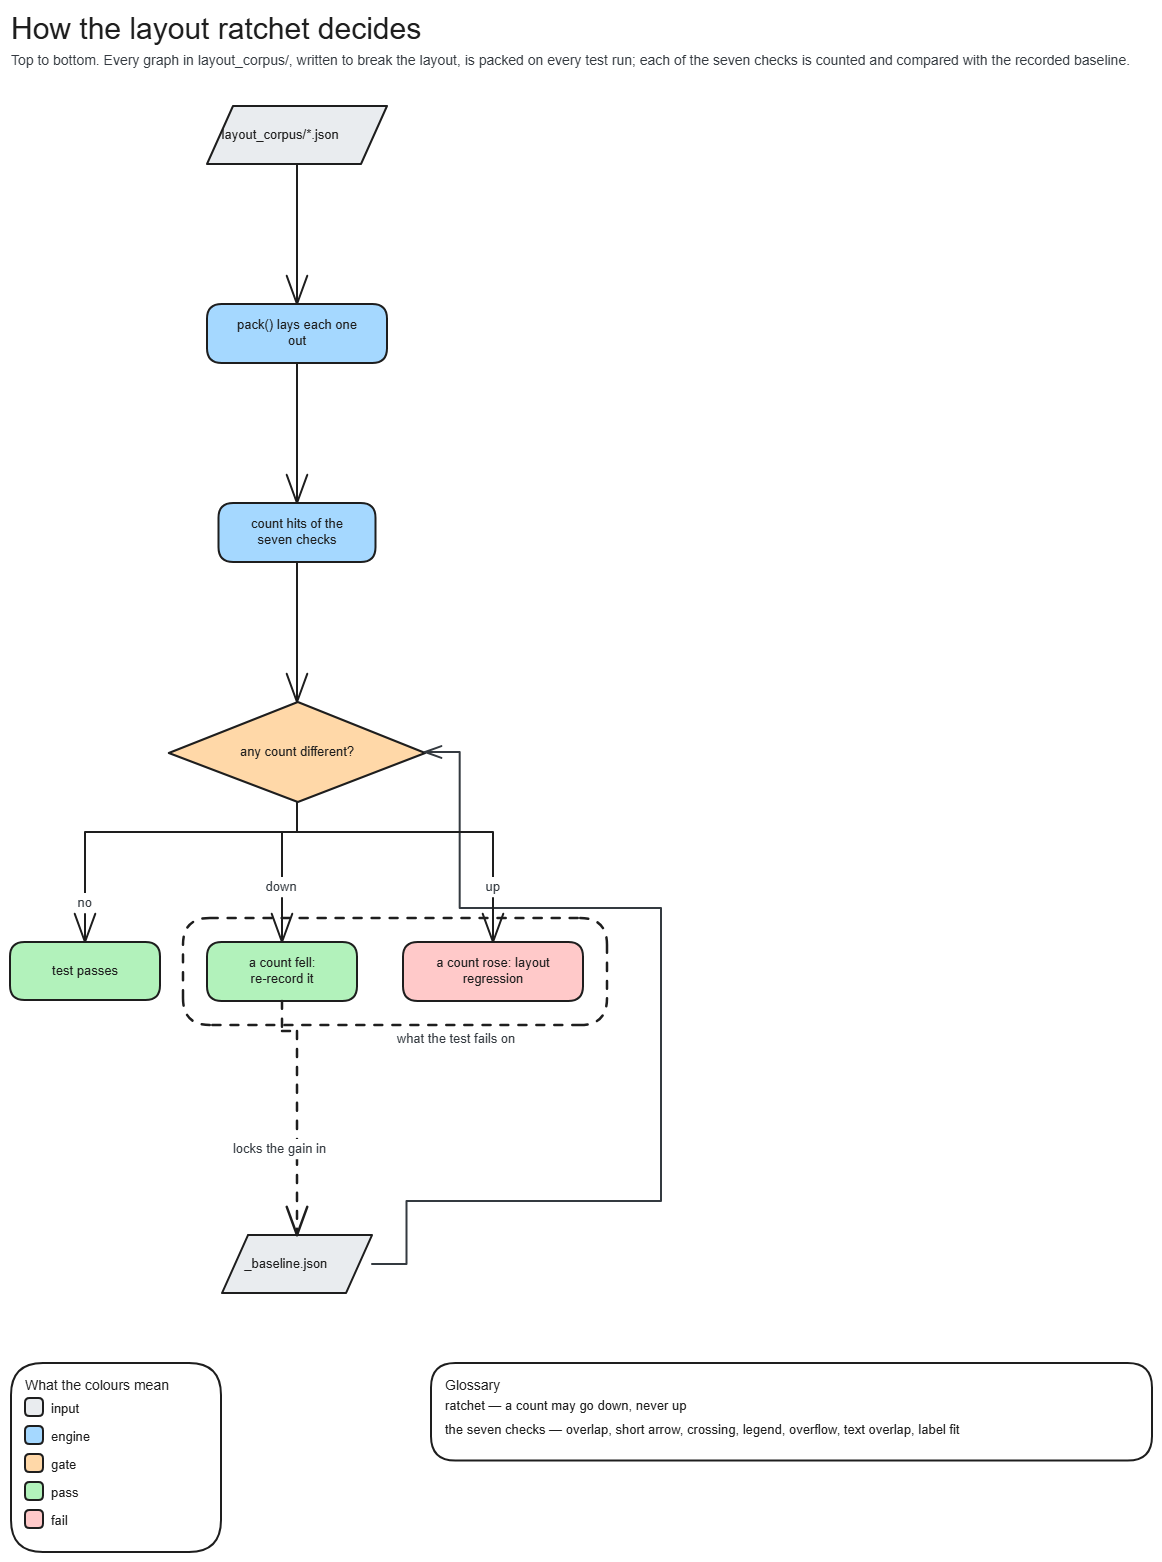
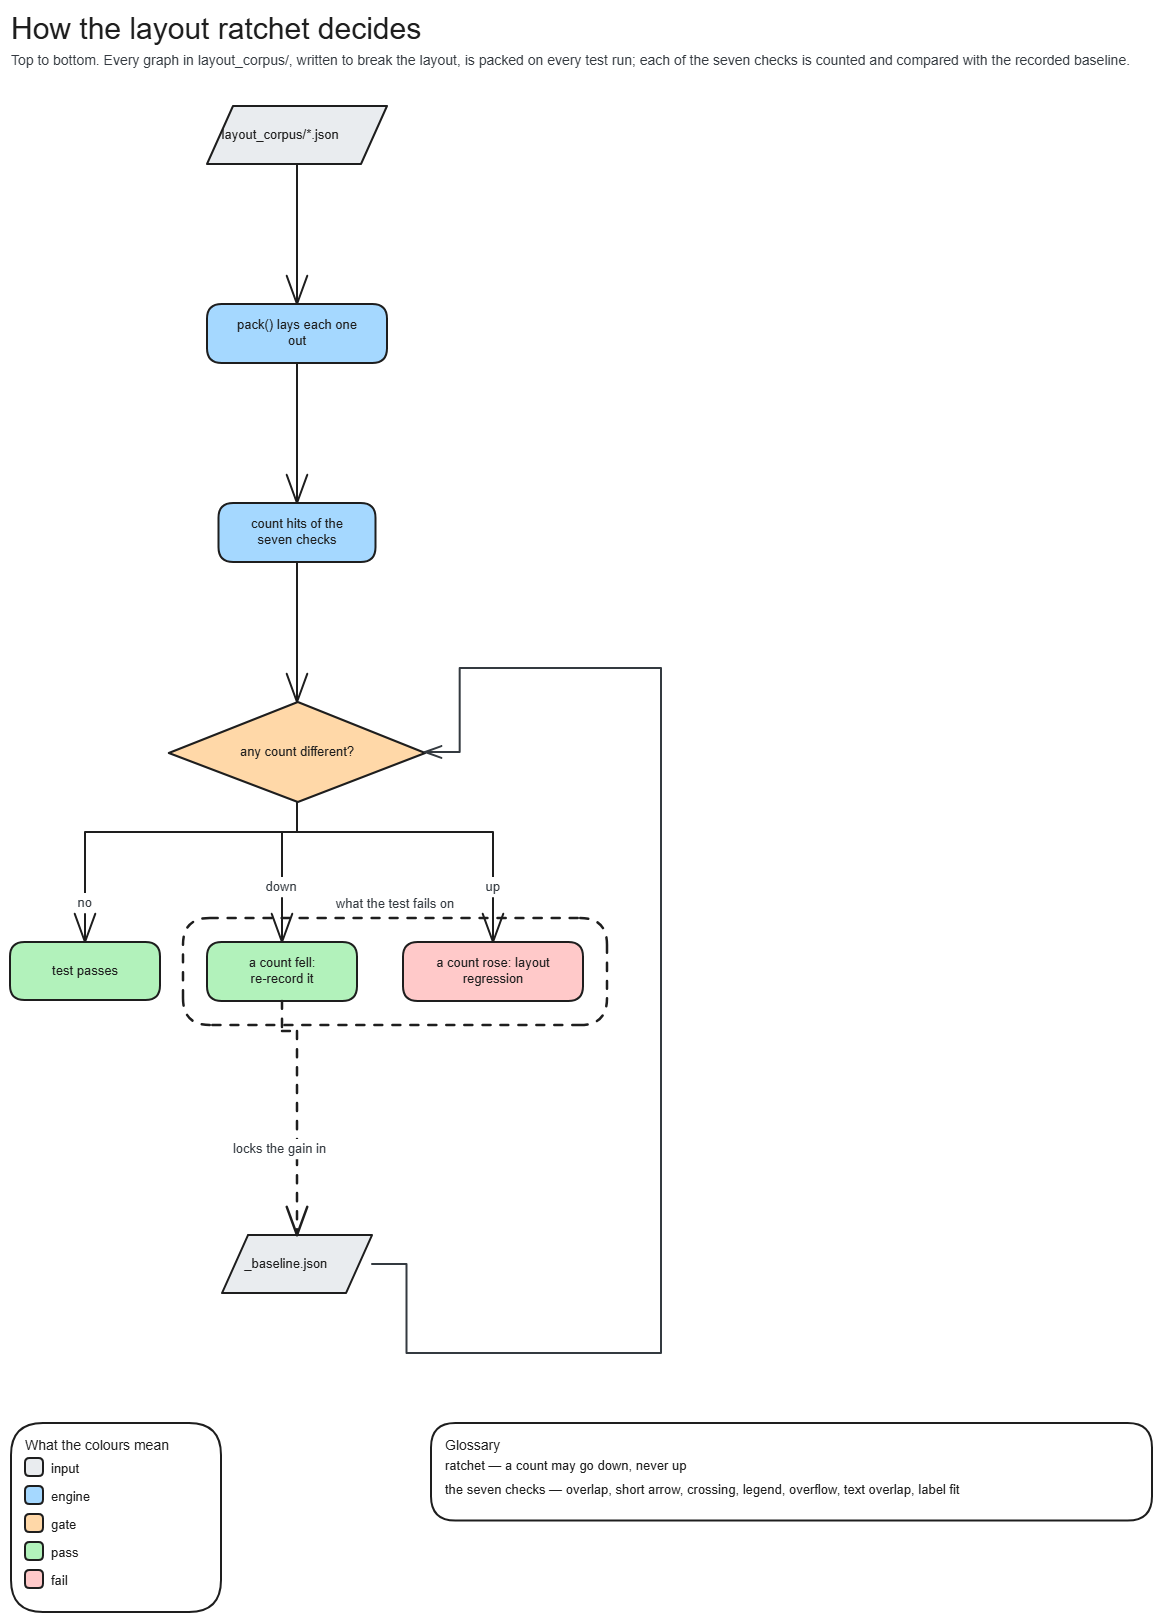
Route a detour past its target's bus; count the README diagram labels
pack() routed a feedback edge into its target through the strip after the
target's layer. With edge_style "orthogonal" that strip also carries the
target's bus, so in docs/ratchet_graph.json the edge
_baseline.json -> "any count different?" cut the "up" branch. No gate
judges one connector against another, so nothing reported it.

Detours are now routed after every straight arrow and bus. Each end may use
the strip on either side of its layer, and pack() keeps the path crossing
the fewest connectors; the previous choice wins a tie, so a layout that had
no crossing keeps its geometry (ci_flow, scene_from_json and state_machine
regenerate with identical coordinates). The segment test moves from
sides.py to geometry.segments_cross so both callers share it.

docs/make_repo_map.py counts tests, generators and requirements when it
runs. make_full_architecture.py counts its generators and drops the test
and requirement counts it cannot see from an installed copy.

layout_ratchet.png, repo_map.png and full_architecture.png re-exported.

diff --git a/plugin-full/skills/excalidraw-diagram/scripts/excalidraw_engine/pack.py b/plugin-full/skills/excalidraw-diagram/scripts/excalidraw_engine/pack.py
@@ -12,7 +12,7 @@ check_arrow_crossings() empty.
 """
 
 from .annotate import numbered_text
-from .geometry import as_point, fit_text, text_extent
+from .geometry import as_point, fit_text, segments_cross, text_extent
 from .shapes import SUBLABEL_SIZE
 from .style import Font, Paint
 
@@ -357,7 +357,7 @@ class _PackRun(object):
         channel.append(self.at[-1] + self.extent[-1] + 60.0)
         _, _, far_x, far_y = self.scene.bounds()
         far = (far_y if self.lr else far_x) + margin
-        lane, trunk = 0, self._trunks()
+        lane, trunk, detours = 0, self._trunks(), []
         for k, link in enumerate(self.links):
             src, dst = str(link["src"]), str(link["dst"])
             a, b = self.placed[src], self.placed[dst]
@@ -370,10 +370,13 @@ class _PackRun(object):
                 self.scene.arrow(a, b, label=link.get("label"),
                                  paint=Paint(dashed=bool(link.get("dashed"))))
                 continue
-            self._route((a, b), (self.layer[src], self.layer[dst]), channel,
-                        (far + self.opts.lane_gap * (lane + 1), min(lane * 5.0, 10.0),
-                         link.get("label")), dashed=bool(link.get("dashed")))
+            detours.append(((a, b), (self.layer[src], self.layer[dst]), channel,
+                            (far + self.opts.lane_gap * (lane + 1), min(lane * 5.0, 10.0),
+                             link.get("label")), bool(link.get("dashed"))))
             lane += 1
+        # routed last, so each detour sees every straight arrow and bus it could cut
+        for ends, spans, chan, lane_spec, dashed in detours:
+            self._route(ends, spans, chan, lane_spec, dashed=dashed)
 
     def _trunks(self):
         """{source id: trunk coordinate} for every node with a bus edge, empty
@@ -443,29 +446,52 @@ class _PackRun(object):
         height of a box's side, and no gate would see a line through that text.
         The lane's nudge offsets connectors that share a channel. The line is grey and
         dashed only when its edge is, as a straight arrow is: a detour must not read as
-        a different kind of relationship."""
+        a different kind of relationship.
+
+        Each end can use the channel on either side of its layer. The default pair
+        is tried first and kept unless another pair cuts fewer drawn connectors: the
+        gap after a layer also carries that layer's bus, and a detour through it
+        would cut the bus's branches."""
         lane_at, nudge, label = lane
         sx, sy, sw, sh, _ = self.scene._geom[ends[0]]
         dx, dy, dw, dh, _ = self.scene._geom[ends[1]]
         ls, ld = spans
-        out_i, in_i = (ls, ld + 1) if ld <= ls else (ls + 1, ld)
-        if out_i == in_i:       # neighbouring layers: both legs would share one
-            out_i, in_i = (ls + 1, ld) if ld <= ls else (ls, ld + 1)   # channel
-        out_c, in_c = channel[out_i] - nudge, channel[in_i] - nudge
+        # the default, then its mirror (the one neighbouring layers fall back to)
+        preferred = [(ls, ld + 1), (ls + 1, ld)] if ld <= ls else [(ls + 1, ld), (ls, ld + 1)]
+        pairs = preferred + [(o, i) for o in (ls, ls + 1) for i in (ld, ld + 1)
+                             if (o, i) not in preferred]
         # clear of enclose()'s 24px frame, inside the row gap
         gap = self.opts.gap_minor
         stub = min(max(gap * 0.75, 30.0), gap - 6.0)
-        if self.lr:                                 # lanes run below the diagram
-            s_out, d_out = sy + sh + stub, dy + dh + stub
-            pts = [(sx + sw / 2, sy + sh), (sx + sw / 2, s_out), (out_c, s_out),
-                   (out_c, lane_at), (in_c, lane_at),
-                   (in_c, d_out), (dx + dw / 2, d_out), (dx + dw / 2, dy + dh)]
-        else:                                       # lanes run right of it
-            s_out, d_out = sx + sw + stub, dx + dw + stub
-            pts = [(sx + sw, sy + sh / 2), (s_out, sy + sh / 2), (s_out, out_c),
-                   (lane_at, out_c), (lane_at, in_c),
-                   (d_out, in_c), (d_out, dy + dh / 2), (dx + dw, dy + dh / 2)]
+
+        def points(out_i, in_i):
+            out_c, in_c = channel[out_i] - nudge, channel[in_i] - nudge
+            if self.lr:                             # lanes run below the diagram
+                s_out, d_out = sy + sh + stub, dy + dh + stub
+                return [(sx + sw / 2, sy + sh), (sx + sw / 2, s_out), (out_c, s_out),
+                        (out_c, lane_at), (in_c, lane_at),
+                        (in_c, d_out), (dx + dw / 2, d_out), (dx + dw / 2, dy + dh)]
+            s_out, d_out = sx + sw + stub, dx + dw + stub   # lanes run right of it
+            return [(sx + sw, sy + sh / 2), (s_out, sy + sh / 2), (s_out, out_c),
+                    (lane_at, out_c), (lane_at, in_c),
+                    (d_out, in_c), (d_out, dy + dh / 2), (dx + dw, dy + dh / 2)]
+
+        drawn = self._connector_legs()
+        # neighbouring layers: both legs in one channel would overlap, so skip it
+        candidates = [points(o, i) for o, i in pairs if o != i]
+        pts = min(candidates, key=lambda c: sum(
+            segments_cross(leg, other) for leg in zip(c, c[1:]) for other in drawn))
         return self.scene.path(pts, label=label, paint=Paint(stroke="grey", dashed=dashed))
+
+    def _connector_legs(self):
+        """Every straight leg of the connectors drawn so far, as ((x1, y1), (x2, y2))."""
+        legs = []
+        for el in self.scene.elements:
+            pts = el.get("points") or ()
+            if el.get("type") in ("arrow", "line") and not el.get("polygon") and len(pts) > 1:
+                xy = [(el["x"] + px, el["y"] + py) for px, py in pts]
+                legs.extend(zip(xy, xy[1:]))
+        return legs
 
 
 class PackMixin(object):

diff --git a/docs/make_repo_map.py b/docs/make_repo_map.py
@@ -10,12 +10,24 @@ Regenerate from the repo root (the .excalidraw + .html land where you say):
 Then open out/repo_map.html and use Excalidraw's menu > Export image to refresh
 docs/repo_map.png.
 """
+import glob
 import os
 import sys
+import unittest
 
-sys.path.insert(0, os.path.join(os.path.dirname(__file__), "..", "plugin-full",
-                                "skills", "excalidraw-diagram", "scripts"))
+ROOT = os.path.join(os.path.dirname(os.path.abspath(__file__)), "..")
+SKILL = os.path.join(ROOT, "plugin-full", "skills", "excalidraw-diagram")
+sys.path.insert(0, os.path.join(SKILL, "scripts"))
 from excalidraw_builder import DASHED, Font, Gates, Scene
+
+# counted at generation time, so the labels cannot go stale
+N_EXAMPLES = len(glob.glob(os.path.join(SKILL, "examples", "make_*.py")))
+N_TESTS = unittest.defaultTestLoader.discover(
+    os.path.join(SKILL, "scripts"), pattern="test_*.py").countTestCases()
+N_REQS = 0
+for _path in glob.glob(os.path.join(ROOT, "requirements", "*.md")):
+    with open(_path, encoding="utf-8") as _f:
+        N_REQS += sum(1 for line in _f if line.startswith("id:"))
 
 s = Scene(seed=7, roles={
     "you":      "grey",     # the person asking, or Claude acting for them
@@ -39,9 +51,9 @@ row_y = y + 44
 parts = s.row([
     ("SKILL.md\nthe contract Claude follows", "contract"),
     ("excalidraw_builder.py\nthe builder, stdlib only", "engine"),
-    ("test_excalidraw.py\n65 tests + every example", "gate"),
-    ("examples/make_*.py\nfour worked generators", "output"),
-    ("requirements/\n11 promises, gate-checked", "spec"),
+    ("test_*.py\n%d tests, every example" % N_TESTS, "gate"),
+    ("examples/make_*.py\n%d worked generators" % N_EXAMPLES, "output"),
+    ("requirements/\n%d promises, gate-checked" % N_REQS, "spec"),
 ], (80, row_y), gap=26, cell={"size": (215, 70), "font": 12})
 s.enclose(parts, label="plugin-full/  -  what gets installed")
 _, _, fx2, _ = s.bounds()

diff --git a/plugin-full/skills/excalidraw-diagram/examples/make_full_architecture.py b/plugin-full/skills/excalidraw-diagram/examples/make_full_architecture.py
@@ -16,11 +16,16 @@ Every save() gate runs at "error". Run from the repo root, writing into the
 regenerable diagrams/ dir:
     python plugin-full/skills/excalidraw-diagram/examples/make_full_architecture.py diagrams
 """
+import glob
 import os
 import sys
 
 sys.path.insert(0, os.path.join(os.path.dirname(__file__), "..", "scripts"))
 from excalidraw_builder import Font, Gates, Scene
+
+# counted, not written: a hand-typed count goes stale with the next example
+N_EXAMPLES = len(glob.glob(os.path.join(os.path.dirname(os.path.abspath(__file__)),
+                                        "make_*.py")))
 
 s = Scene(seed=31, roles={
     "engine":   "blue",     # excalidraw_builder.py
@@ -42,8 +47,8 @@ parts = s.row([
     ("SKILL.md\nthe contract", "skill"),
     ("excalidraw_builder.py\nstdlib only", "engine"),
     ("references/\napi + examples", "words"),
-    ("examples/make_*.py\nfour generators", "artifact"),
-    ("requirements/\n14 promises", "words"),
+    ("examples/make_*.py\n%d generators" % N_EXAMPLES, "artifact"),
+    ("requirements/\ngate-checked promises", "words"),
 ], (80, y + 44), gap=28, cell={"size": (200, 64), "font": 13})
 s.enclose(parts, label="excalidraw-diagram plugin")
 
@@ -95,7 +100,7 @@ yb = yi + 150
 mkt = s.box(".claude-plugin\nmarketplace.json", (80, yb, 190, 64),
             paint="external", font=13)
 inst = s.box("/plugin install", (470, yb, 170, 64), paint="external", font=13)
-ci = s.box("git + CI\n80 tests, every example", (840, yb, 220, 64),
+ci = s.box("git + CI\nevery test, every example", (840, yb, 220, 64),
            paint="external", font=13)
 s.arrow(mkt, inst, label="lists")
 s.arrow(inst, ci, label="then every push")

diff --git a/plugin-full/skills/excalidraw-diagram/scripts/test_excalidraw.py b/plugin-full/skills/excalidraw-diagram/scripts/test_excalidraw.py
@@ -1181,6 +1181,20 @@ class CasesExcalidraw034(unittest.TestCase):  # tested-by: REQ-EXCALIDRAW-851  #
                options=eb.PackOptions(direction="TB"))
         self.assertEqual(s.check_overlaps(), [])
 
+    def test_a_feedback_edge_avoids_its_targets_bus(self):  # verifies: ARCH-EXCALIDRAW-034#CASE-5
+        # the README's ratchet graph: the strip under "cmp" carries its bus, so a
+        # feedback edge entering through it cut the branch to "rose". No gate sees
+        # one connector crossing another, so the geometry is asserted here
+        from excalidraw_engine.sides import crossings
+        nodes = [{"id": n} for n in ("corpus", "pack", "count", "base", "ok", "rose", "fell")]
+        nodes.append({"id": "cmp", "kind": "decision"})
+        edges = [{"src": a, "dst": b} for a, b in (
+            ("corpus", "pack"), ("pack", "count"), ("count", "cmp"), ("base", "cmp"),
+            ("cmp", "ok"), ("cmp", "rose"), ("cmp", "fell"), ("fell", "base"))]
+        s = eb.Scene(seed=29)
+        s.pack(nodes, edges, options=eb.PackOptions(direction="TB", edge_style="orthogonal"))
+        self.assertEqual(crossings([e for e in s.elements if not e.get("polygon")])[1], 0)
+
     def test_a_frame_caption_dodges_the_arrows_entering_the_group(self):  # verifies: REQ-EXCALIDRAW-851#CASE-7
         nodes = [{"id": i} for i in ("in", "a", "b", "c")]
         edges = [{"src": "in", "dst": n, "label": n} for n in ("a", "b", "c")]

diff --git a/plugin-full/skills/excalidraw-diagram/scripts/excalidraw_engine/sides.py b/plugin-full/skills/excalidraw-diagram/scripts/excalidraw_engine/sides.py
@@ -11,6 +11,7 @@ facts. The search never returns an assignment worse than it, and the same schema
 gives the same answer.
 """
 
+from .geometry import segments_cross
 from .pack import PackOptions
 from .scene import Scene
 
@@ -29,22 +30,12 @@ def _lines(elements):
     return out
 
 
-def _turn(p, q, r):
-    return (q[0] - p[0]) * (r[1] - p[1]) - (q[1] - p[1]) * (r[0] - p[0])
-
-
-def _cross(a, b):
-    (p1, p2), (p3, p4) = a, b
-    return (_turn(p3, p4, p1) * _turn(p3, p4, p2) < 0
-            and _turn(p1, p2, p3) * _turn(p1, p2, p4) < 0)
-
-
 def crossings(elements):
     """(routed, pairs): how many connectors are routed round the diagram instead of drawn
     straight, and how many pairs of connectors cross, in a scene's elements."""
     lines = _lines(elements)
     pairs = sum(1 for i in range(len(lines)) for j in range(i + 1, len(lines))
-                if any(_cross(a, b) for a in lines[i][1] for b in lines[j][1]))
+                if any(segments_cross(a, b) for a in lines[i][1] for b in lines[j][1]))
     return sum(1 for routed, _ in lines if routed), pairs
 
 

diff --git a/plugin-full/skills/excalidraw-diagram/scripts/excalidraw_engine/geometry.py b/plugin-full/skills/excalidraw-diagram/scripts/excalidraw_engine/geometry.py
@@ -174,6 +174,18 @@ def seg_rect_overlap(p0, p1, rect):
     return (t1 - t0) * math.hypot(dx, dy)
 
 
+def _turn(p, q, r):
+    return (q[0] - p[0]) * (r[1] - p[1]) - (q[1] - p[1]) * (r[0] - p[0])
+
+
+def segments_cross(a, b):
+    """True when segments a = (p1, p2) and b = (p3, p4) cross at a point inside
+    both. Touching, a shared end and collinear overlap do not count."""
+    (p1, p2), (p3, p4) = a, b
+    return (_turn(p3, p4, p1) * _turn(p3, p4, p2) < 0
+            and _turn(p1, p2, p3) * _turn(p1, p2, p4) < 0)
+
+
 def polyline_midpoint(points):
     """The point at half the total arc length along a polyline — the visual
     middle of a routed connector, not a corner waypoint."""

diff --git a/TODO.md b/TODO.md
@@ -2,24 +2,10 @@
 
 ## README diagrams
 
-- **`layout_ratchet.png`: a routed edge crosses a sibling edge.** In
-  `docs/ratchet_graph.json` the edge `base -> cmp` (`_baseline.json` ->
-  "any count different?") is routed and its horizontal leg cuts the vertical leg
-  of `cmp -> rose` ("up"). The `crossing` gate does not report it:
-  `python -X utf8 plugin-full/skills/excalidraw-diagram/scripts/excalidraw_builder.py scene --from-json docs/ratchet_graph.json -o out/`
-  prints no warning. The straight style drew the same crossing, so this is
-  not a regression from `edge_style: "orthogonal"`. Two things to settle: why
-  `check_arrow_crossings()` misses a routed path against a bus leg, and whether
-  `pack()` can route this edge on the other side.
-
-- **`repo_map.png` and `full_architecture.png` show stale counts.** The labels
-  were written by hand:
-  - `docs/make_repo_map.py:42-44`: "65 tests", "four worked generators",
-    "11 promises".
-  - `plugin-full/skills/excalidraw-diagram/examples/make_full_architecture.py:45-46`:
-    "four generators", "14 promises"; `:98`: "80 tests".
-
-  Today there are 9 `examples/make_*.py`, 44 requirements (`reqmap.py gate`)
-  and 183 tests (`test_excalidraw` + `test_mcp_server`). The example is
-  shipped, so changing it means a patch bump. Consider computing the counts at
-  generation time instead of hard-coding them, so they cannot go stale again.
+- **`repo_map.png` still raises two gate warnings.**
+  `python -X utf8 docs/make_repo_map.py out/` prints both:
+  - `[orthogonal]`: the dashed `triggers` connector from `pull request` to the
+    CI frame is diagonal.
+  - `[focus]`: 7 accent-coloured shapes (the limit is 2) and 5 role fills (the
+    limit is 4). The `gate` role paints all five CI jobs plus the test box and
+    the `save()` decision.

diff --git a/requirements/ARCH-EXCALIDRAW-034.md b/requirements/ARCH-EXCALIDRAW-034.md
@@ -33,6 +33,9 @@ Every bullet below is binding.
   leaves a shape sitting on another one has failed.
 - The CLI reaches `pack()` through `scene --from-json`, so a caller never has to
   write Python to get a diagram. [[REQ-EXCALIDRAW-850]] details that verb.
+- `pack()` routes an edge after every straight arrow and bus. Each end may use the
+  strip on either side of its layer, and `pack()` picks the strip whose path crosses
+  the fewest connectors.
 
 ## Cases
 CASE-1 — a described graph with groups and a feedback edge lays out cleanly
@@ -62,6 +65,11 @@ CASE-4 — a graph that cannot be laid out is refused, and says why
          direction it does not know
   When   `pack()` runs
   Then   it raises `ValueError` naming what is wrong
+
+CASE-5 — a feedback edge avoids its target's bus
+  Given  a top-to-bottom orthogonal graph whose decision fans out to three nodes, with a feedback edge into it
+  When   `pack()` lays it out
+  Then   no two connectors cross
 
 ## Context
 **Notes**

diff --git a/CHANGELOG.md b/CHANGELOG.md
@@ -1,5 +1,19 @@
 # Changelog
 
+## plugin `v2.22.2` — 2026-11-23
+
+**A routed edge no longer cuts its target's bus.** Full edition.
+
+- `pack()` routed a feedback edge into its target through the strip after the target's
+  layer. With `edge_style="orthogonal"` that strip also carries the target's bus, so the
+  detour cut a branch (`docs/ratchet_graph.json`: `_baseline.json -> any count different?`
+  crossed the `up` branch). Detours are now routed after every straight arrow and bus.
+  Each end may use the strip on either side of its layer, and `pack()` keeps the one
+  crossing the fewest connectors. The default still wins a tie, so a layout that had no
+  crossing keeps its geometry.
+- `make_full_architecture.py` counts its generators instead of naming a number, and
+  drops the test and requirement counts it could not keep current.
+
 ## plugin `v2.22.1` — 2026-11-16
 
 **Labels in capitals are no longer cut off in the viewer.** Full edition.

diff --git a/requirements/_map.md b/requirements/_map.md
@@ -1,9 +1,9 @@
 ---
-generated: 2026-11-16
+generated: 2026-11-23
 engine: 2026-11-02.2
 nodes: 44
 edges: 6
-design pass-rate: 88% (28/32 source files without a design candidate)
+design pass-rate: 84% (27/32 source files without a design candidate)
 ---
 
 # Requirement Map
